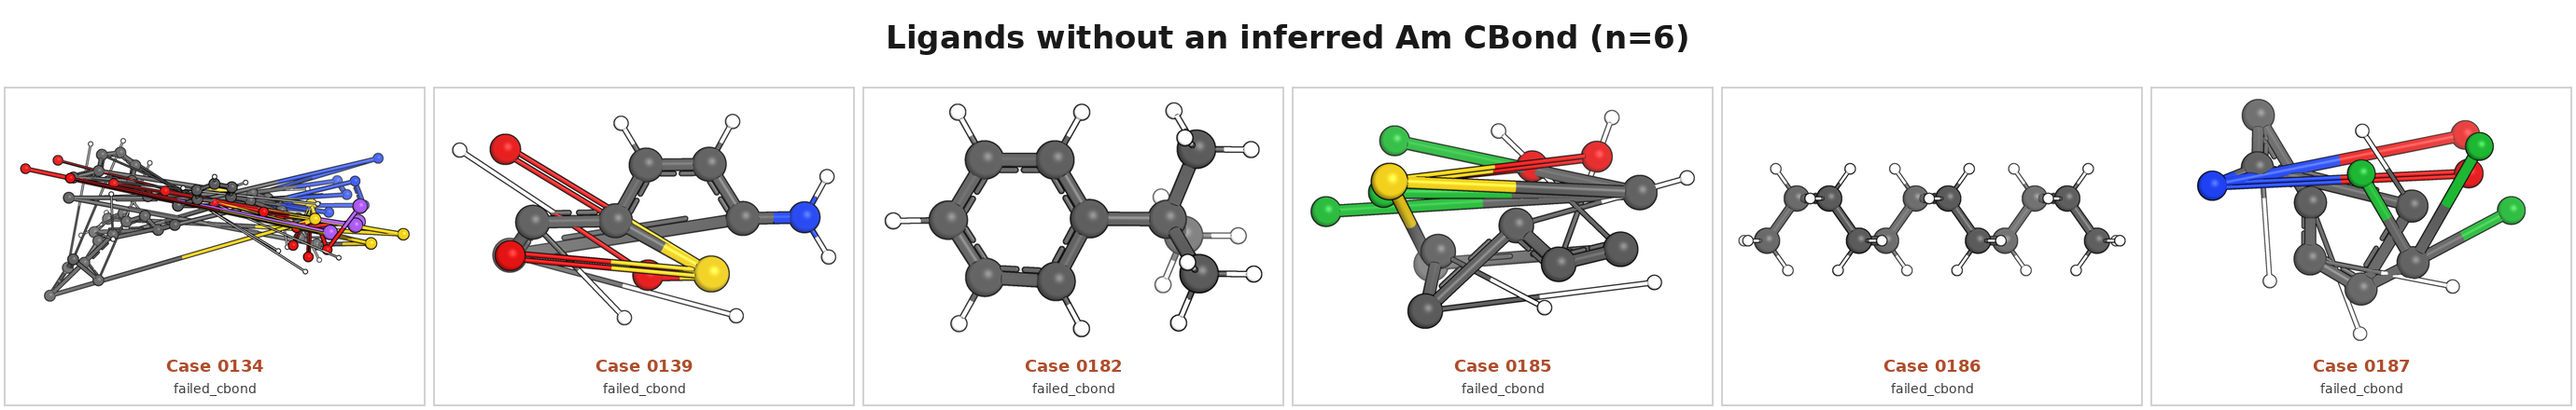
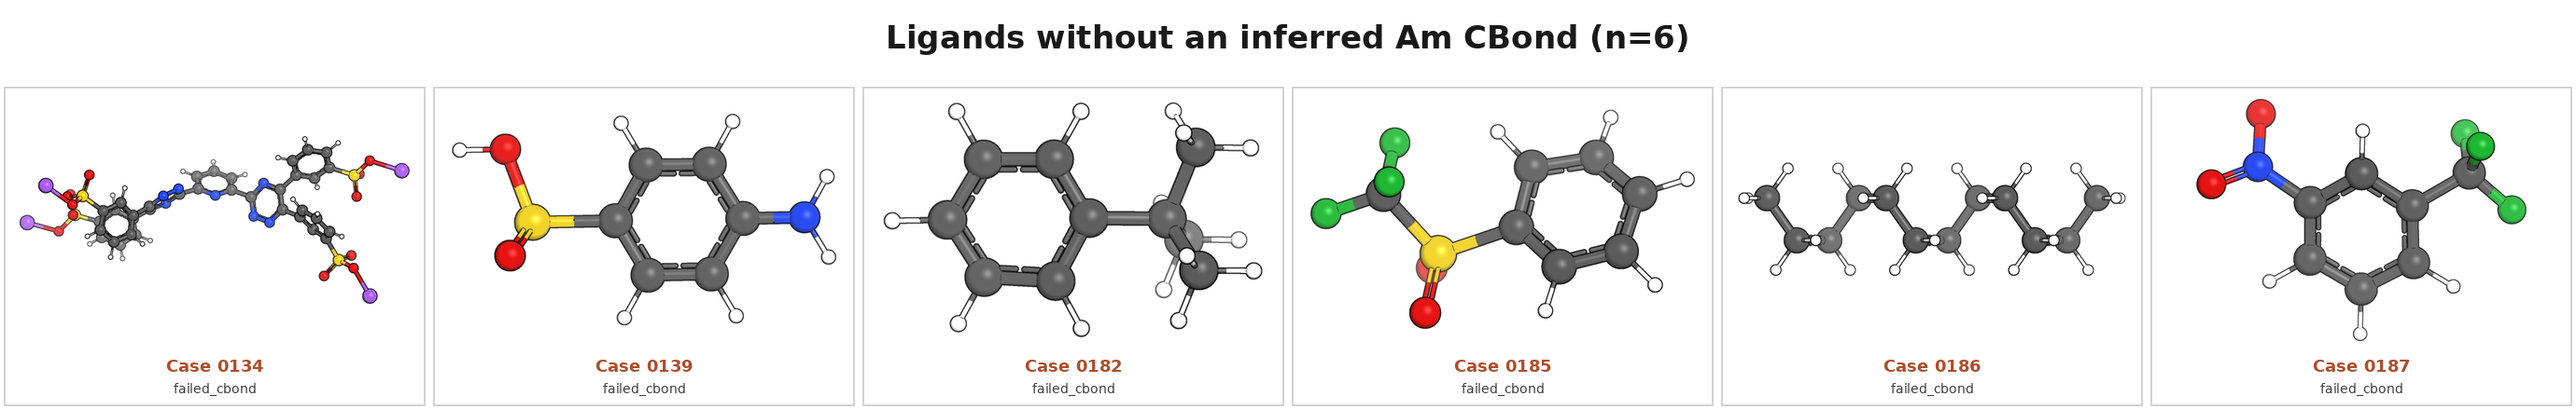
docs(readme): replace corrected Am coordination galleries

diff --git a/tests/readme/test_forcefield_validation_benchmark.py b/tests/readme/test_forcefield_validation_benchmark.py
@@ -184,7 +184,8 @@ def test_am_gallery_evidence_matches_readme() -> None:
 
     assert "**181/187** inputs" in readme
     assert "**6/187** inputs" in readme
-    assert "**181/181** constructed complexes" in readme
+    assert "**181/181** optimized outputs" in readme
+    assert "current generic geometry gate" in readme
     assert "Materials Studio-inspired" in readme
     assert "maximum principal moment axis" in readme
     assert "visualization-only 3D" in readme

diff --git a/README.md b/README.md
@@ -393,8 +393,9 @@ The same 187 extractant ligands were submitted to Hotpot's automatic complex
 workflow with Am: native `FAST` optimization first, followed by the complete
 complex workflow only when the preliminary structure was rejected. Hotpot
 inferred at least one Am–donor coordination bond for **181/187** inputs;
-**6/187** inputs produced no Am CBond. All **181/181** constructed complexes
-passed the standard geometry gate.
+**6/187** inputs produced no Am CBond. All **181/181** optimized outputs
+passed the current generic geometry gate; this does not establish that every
+coordination environment is chemically definitive.
 
 The galleries use explicit hydrogens and a white-background, orthographic,
 Materials Studio-inspired ball-and-stick style. Each structure is viewed along
